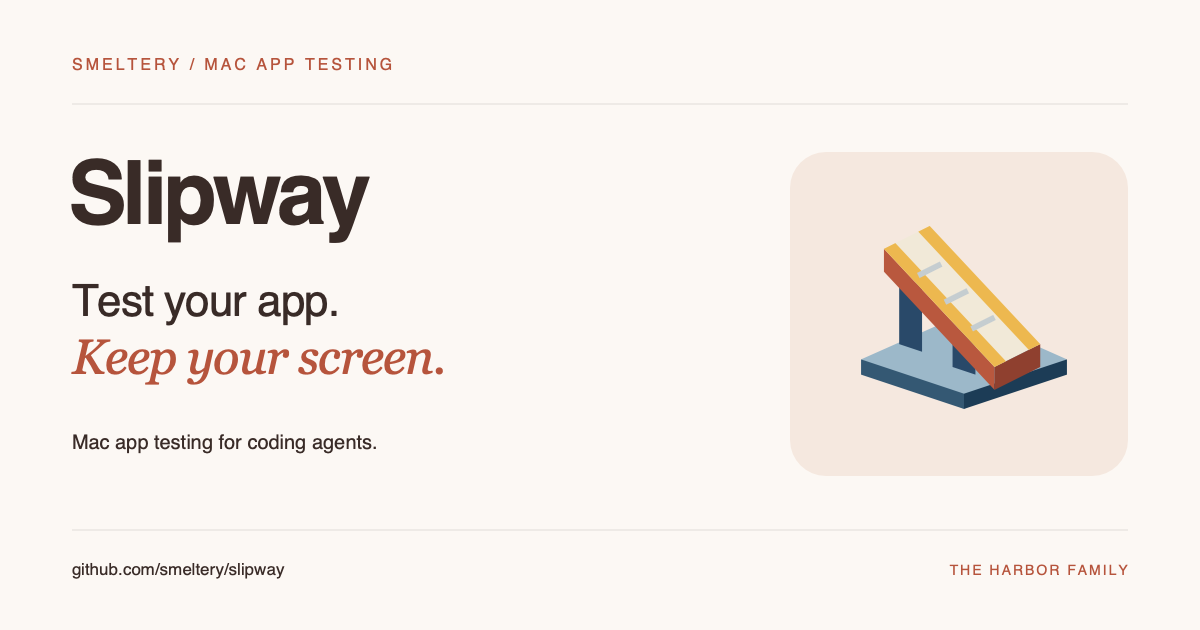
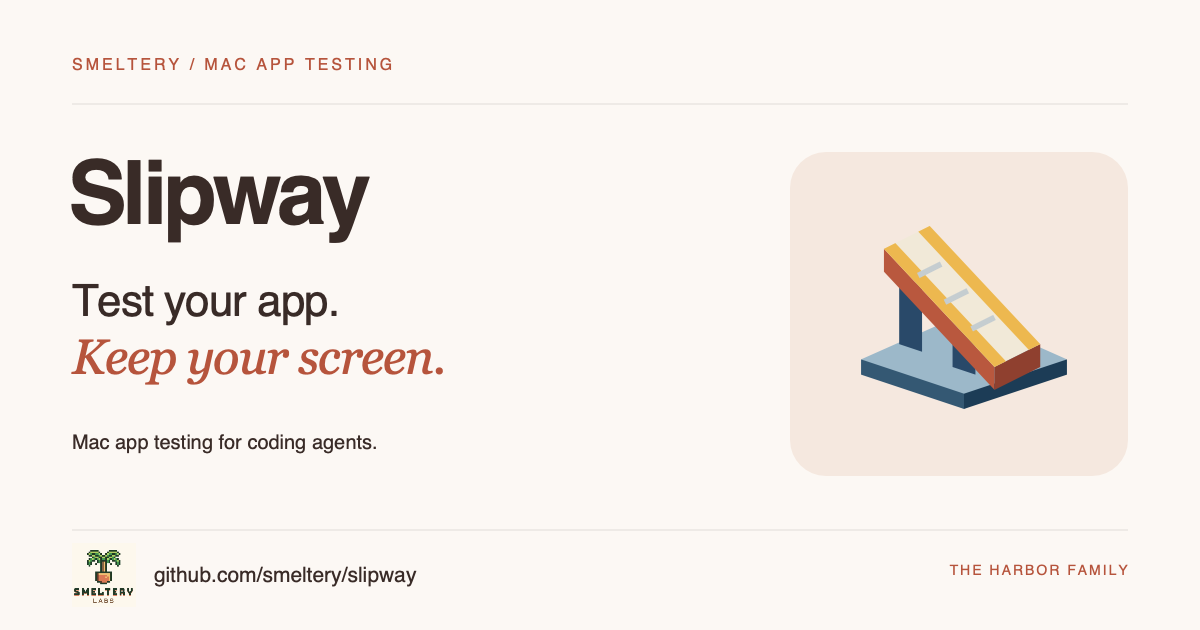
design: add Smeltery branding to social card footers

Changed region(s): [[0.0617, 0.8746, 0.37, 0.9651]]

diff --git a/assets/brands/README.md b/assets/brands/README.md
@@ -6,3 +6,4 @@ Third-party marks identify the tools used by this project.
 - Bun: [official logo](https://bun.sh/logo.svg).
 - Flox: [official favicon](https://flox.dev/favicon.svg).
 - Tart: [official logo](https://tart.run/assets/images/TartLogo.png).
+- Smeltery Labs: shared organization mark from `smeltery/trellis/fork/branding/smeltery.png`.
